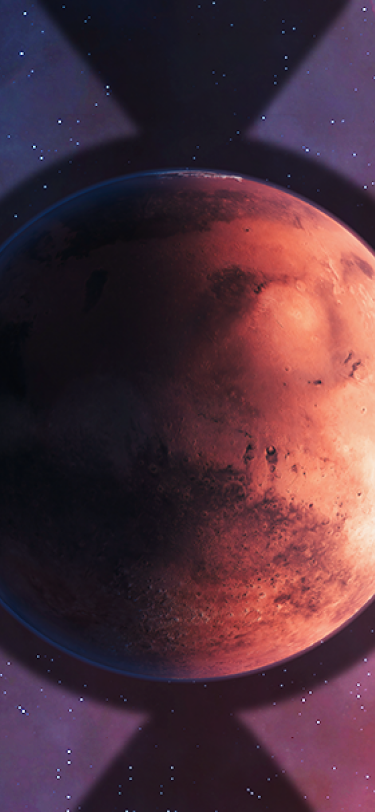
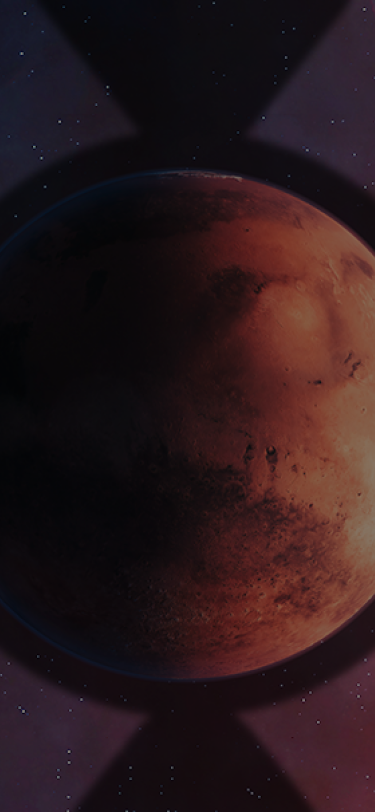
fixed some css

diff --git a/css/style.css b/css/style.css
@@ -229,7 +229,7 @@ footer .socialIcons ul li img::selection{
 }
 
 .wrapper_AR section .title{
-    padding-top: 60px;
+    padding-top: 50px;
 }
 .sb_AR section .form_title{
     padding-top: 13px;
@@ -302,7 +302,7 @@ footer .socialIcons ul li img::selection{
     }
 
     body{
-        background-image: url('../img/mainbackgroundM.png' )  ;
+        background-image: url('../img/mainbackgroundM2.png' )  ;
         /* background-position: top center; */
         background-size: cover;
         background-repeat: no-repeat;
